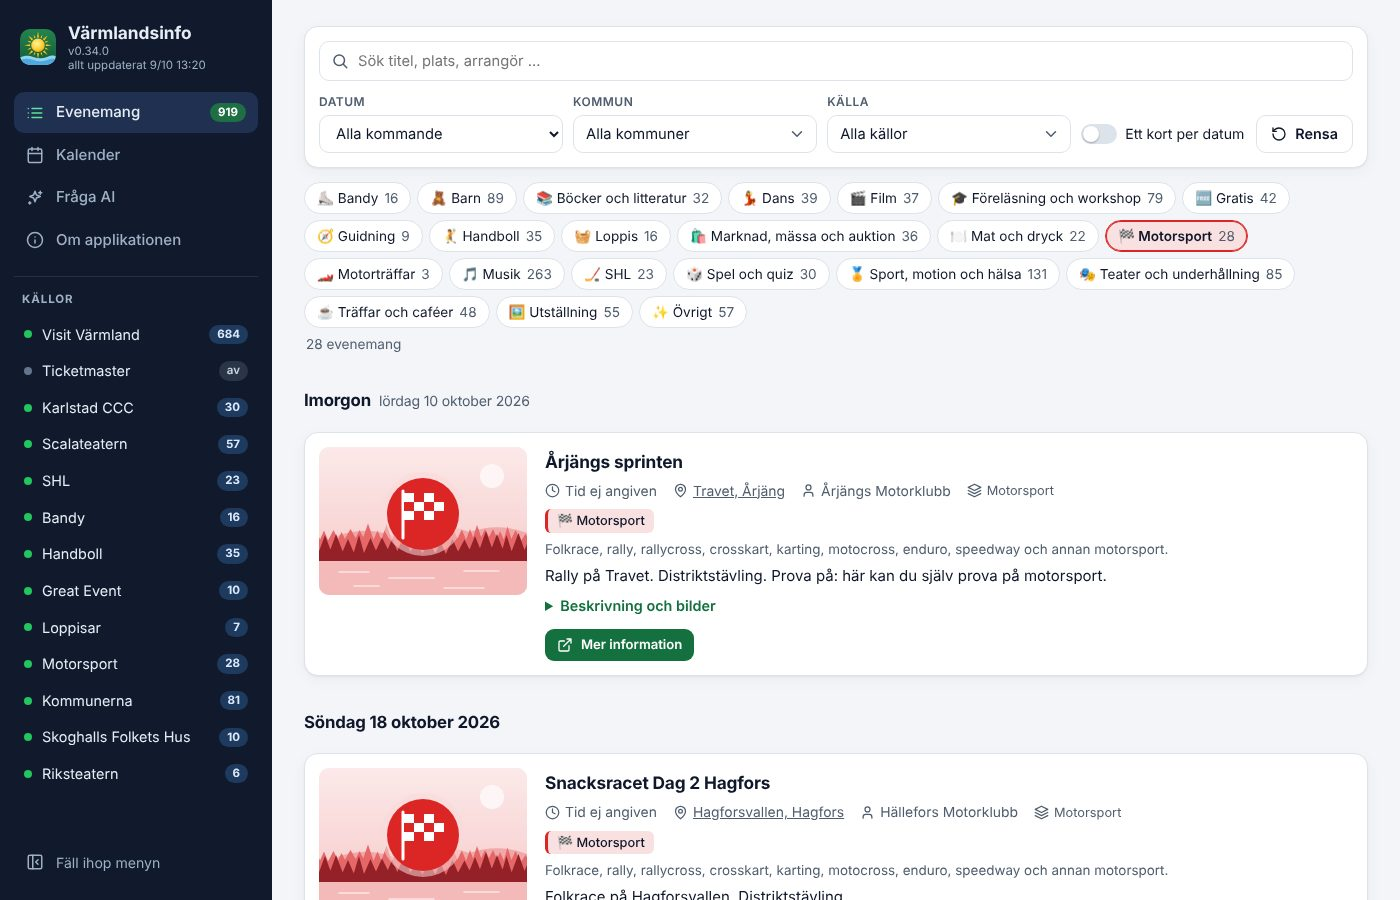
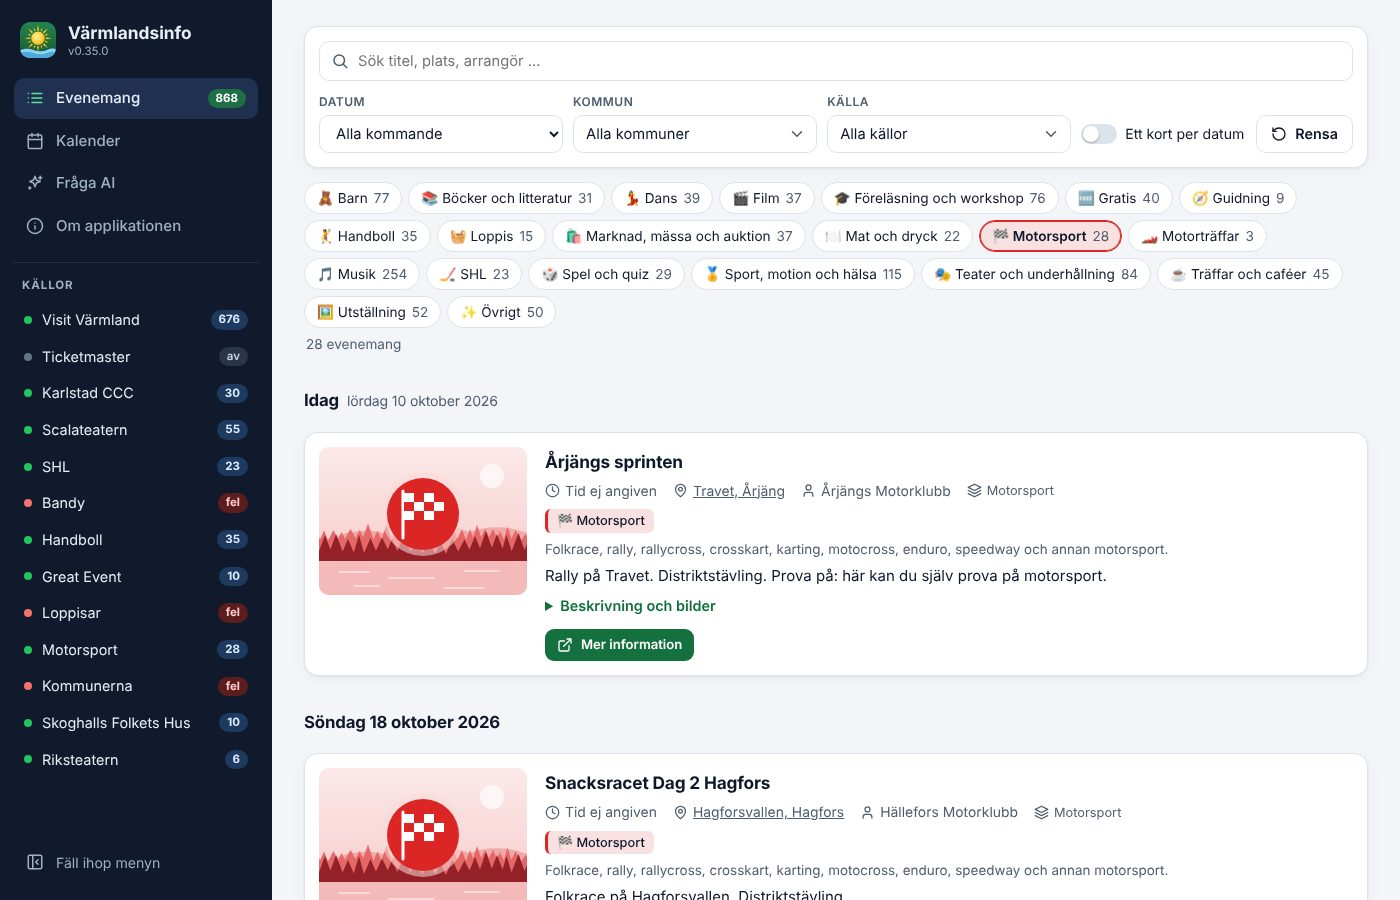
Skärmdumparna med v0.35.0 (#108)
Mobilbilden tas som iPhone, så att rutan om hemskärmen syns.

Closes #108

Claude-Session: https://claude.ai/code/session_01KZzFbkPfyu5CHsMbaT44ou

diff --git a/CLAUDE.md b/CLAUDE.md
@@ -108,7 +108,8 @@ gröna och det finns inga andra grenar eller öppna PR:er.
   Kommunerna (#79, v0.28.0), bara kommuner i filtret Kommun (#81, v0.28.1), arkitekturbilden med 13 källor och
   aktuella kodhänvisningar (#80, v0.28.2), källan Handboll och arkitekturbilden med 14 källor (#82, v0.29.0) och
   skärmdumparna med Handboll (#83).
-- **Inte släppt:** inget. v0.35.0 innehåller rutan om hemskärmen på iPhone och iPad (#107, `installHint()` i `app.js`). v0.34.1 innehåller skärmdumparna med v0.34.0 och arkitekturbilden på revision d4dd84e
+- **Inte släppt:** skärmdumparna med v0.35.0, mobilbilden som iPhone med rutan om hemskärmen (#108, PATCH). Bandy,
+  Loppisar och Kommunerna står som fel i dem (användarens val). v0.35.0 innehåller rutan om hemskärmen på iPhone och iPad (#107, `installHint()` i `app.js`). v0.34.1 innehåller skärmdumparna med v0.34.0 och arkitekturbilden på revision d4dd84e
   (v0.34.0) med den slumpade schemaläggningen (#105). v0.34.0 innehåller slumpade hämtningar per källa mellan 08:00 och 13:00 och "allt
   uppdaterat" i menyn (#104). v0.33.1 innehåller arkitekturbilden på revision 16ca8a8 (v0.33.0) med
   platshållarbilderna (#103). v0.33.0 innehåller platshållarbilderna per kategori (#101) och skärmdumparna med
@@ -120,7 +121,9 @@ gröna och det finns inga andra grenar eller öppna PR:er.
   `Dockerfile`, flödet `security.yml` med pip-audit och Trivy varje måndag, `SECURITY.md`) och v0.30.2 råden för
   Ollama och SearXNG (#92). Blir *Säkerhetskontroll* röd: rätta beroendet eller föreslå användaren en PATCH-release
   (ett nytt bygge får Debians rättningar).
-- **Öppet:** inga issues. Säkerhetsanalysens alla paket (#85–#93) är klara.
+- **Öppet:** inga issues. Men 2026-10-10 kunde Bandys matcher inte tolkas ("sidans struktur kan ha ändrats", dagen
+  innan fanns 16), troligen en bugg i `profixio.parse_matches` för seriernas spelschema (Handboll fungerade). Inget
+  issue ännu: fråga användaren. Säkerhetsanalysens alla paket (#85–#93) är klara.
 - **Möjliga nästa steg** (se Analys av källor som saknas nedan): Tickster (kräver en nyckel som användaren i så fall
   registrerar). Fråga användaren innan det påbörjas.
 - **Känd begränsning:** namnfrågor i Fråga AI ("Vad händer på Medis?") matchar titlar före platser, så evenemang på
@@ -260,7 +263,7 @@ kalender, och SBF har redan rallyna. LoTS och Svemo är ASP.NET/Telerik:
   länkar, licens, Claude Code). Detaljerna finns i `docs/` (`README.md` är innehållsförteckningen): `arkitektur.md`,
   `installation.md`, `funktioner.md`, `kallor.md`, `fraga-ai.md`, `data-och-integritet.md`, `api.md`,
   `utveckling.md`. Nytt innehåll läggs i rätt dokument i `docs/`, inte i README. Skärmdumparna i `docs/screenshots/` skapas med
-  `tools/readme-screenshots.mjs` (lista, kalender, Fråga AI, Motorsport, mobil). Ta om dem när gränssnittet ändras
+  `tools/readme-screenshots.mjs` (lista, kalender, Fråga AI, Motorsport, mobil som iPhone med rutan om hemskärmen). Ta om dem när gränssnittet ändras
   synligt.
 - **Arkitekturbild** (#63, #64), gjord som i användarens repo `tubalainen/reforger-server-manager`: källan
   `docs/arkitektur/varmlandsinfo.architecture.json` (Archify, `meta.animation: "trace"`, svenska texter i

diff --git a/CHANGELOG.md b/CHANGELOG.md
@@ -6,6 +6,9 @@ Formatet följer [Keep a Changelog](https://keepachangelog.com/sv/1.1.0/) och pr
 
 ## [Unreleased]
 
+### Dokumentation
+- Skärmdumparna är tagna med v0.35.0, och mobilbilden tas som iPhone så att rutan om hemskärmen syns (#108).
+
 ## [0.35.0] - 2026-10-10
 
 ### Tillagt
